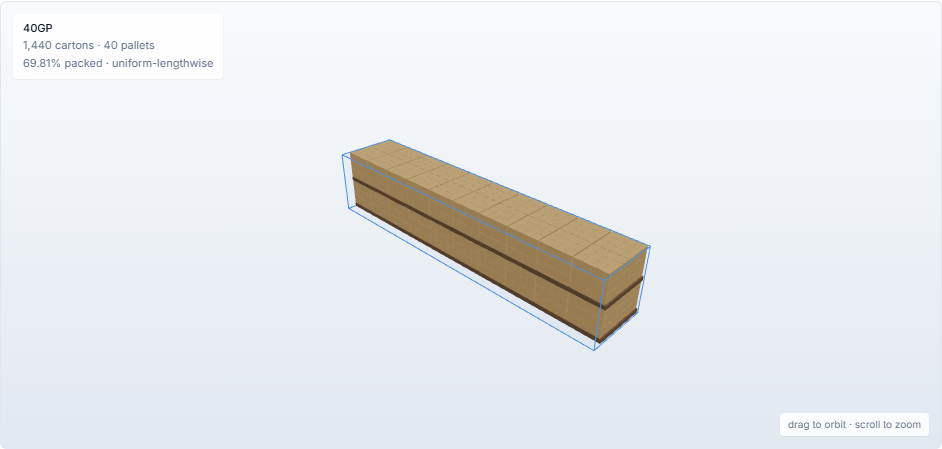
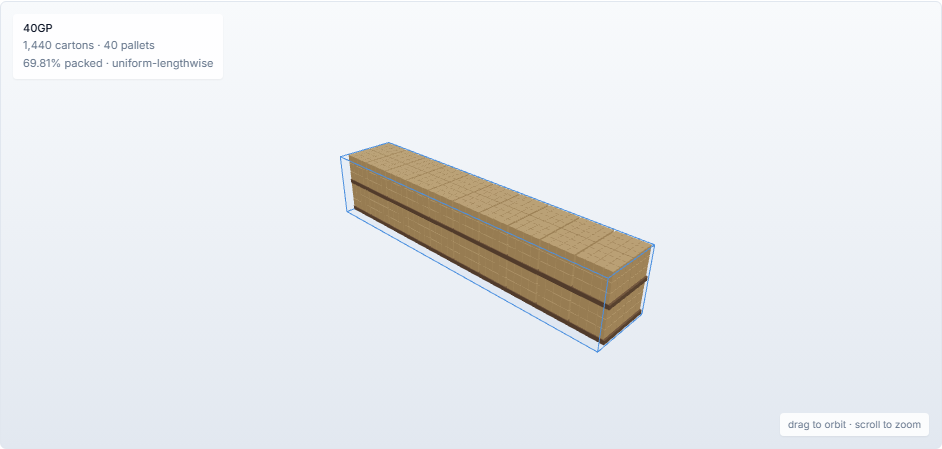
Fix stray wireframe cube in the 3D view; make cartons legible
A small brown wireframe box floated at the container's corner, outside the load.
It was drei's <Edges> helper on the instanced carton mesh: Edges does not
understand instancing, so instead of outlining all N cartons it drew the base
template cube's outline ONCE at the local origin — a lone 1 m wireframe box. The
group's recentre offset put it at the container corner.

Same bug also meant the intended per-carton outlines never landed anywhere, so
the load rendered as a featureless brown slab.

Removed <Edges> from the instanced mesh (kept on the container shell, a single
mesh where it works). Individual cartons now read via a 12 mm render-only gap
between boxes plus flat shading. The gap is applied when building instance
matrices, not in the geometry the correctness tests check — load-plan.spec.ts
still passes (no overlaps, nothing escapes, count matches).

Verified in the running container: stray cube gone, individual cartons and both
pallet tiers visible, and the rotated pallet in a 20GP floor is now clearly
readable. Screenshot regenerated.

diff --git a/frontend/components/viz/container-scene.tsx b/frontend/components/viz/container-scene.tsx
@@ -23,9 +23,15 @@
 import { useMemo, useRef, useLayoutEffect } from "react";
 import { Canvas } from "@react-three/fiber";
 import { OrbitControls, Edges, Bounds } from "@react-three/drei";
+// `Edges` is still used on the container shell, just not on the (instanced) cartons.
 import * as THREE from "three";
 import type { LoadPlan } from "@/lib/api";
 import { composeCartons, composePallets, MM, type Box } from "@/lib/load-plan";
+
+// A hair of air between cartons so the block reads as individual boxes rather
+// than one solid slab. Applied at render time only — the geometry the
+// correctness tests check stays exact.
+const CARTON_GAP_M = 0.012;
 
 /** Every carton in one draw call — 1,440 individual meshes would not be viable. */
 function Cartons({ boxes, cartonH }: { boxes: Box[]; cartonH: number }) {
@@ -35,10 +41,11 @@ function Cartons({ boxes, cartonH }: { boxes: Box[]; cartonH: number }) {
     const mesh = ref.current;
     if (!mesh) return;
     const dummy = new THREE.Object3D();
+    const shrink = (size: number) => Math.max(size - CARTON_GAP_M, size * 0.5);
     boxes.forEach((b, i) => {
       dummy.position.set(b.x, b.y, b.z);
       // Instances share one unit cube, so per-carton size is a scale.
-      dummy.scale.set(b.l, cartonH, b.w);
+      dummy.scale.set(shrink(b.l), shrink(cartonH), shrink(b.w));
       dummy.updateMatrix();
       mesh.setMatrixAt(i, dummy.matrix);
     });
@@ -47,6 +54,10 @@ function Cartons({ boxes, cartonH }: { boxes: Box[]; cartonH: number }) {
     mesh.computeBoundingSphere();
   }, [boxes, cartonH]);
 
+  // No <Edges> here: drei's Edges helper does not understand instancing, so it
+  // draws the base cube's outline ONCE at the local origin instead of on each
+  // carton — a stray 1 m wireframe box floating at the container corner. The gap
+  // between cartons does the job of making individual boxes legible.
   return (
     <instancedMesh
       ref={ref}
@@ -55,9 +66,12 @@ function Cartons({ boxes, cartonH }: { boxes: Box[]; cartonH: number }) {
       receiveShadow
     >
       <boxGeometry args={[1, 1, 1]} />
-      <meshStandardMaterial color="#caa26c" roughness={0.85} metalness={0.02} />
-      {/* Edges make individual cartons legible in a dense block. */}
-      <Edges color="#8a6a42" threshold={15} />
+      <meshStandardMaterial
+        color="#caa26c"
+        roughness={0.8}
+        metalness={0.02}
+        flatShading
+      />
     </instancedMesh>
   );
 }
